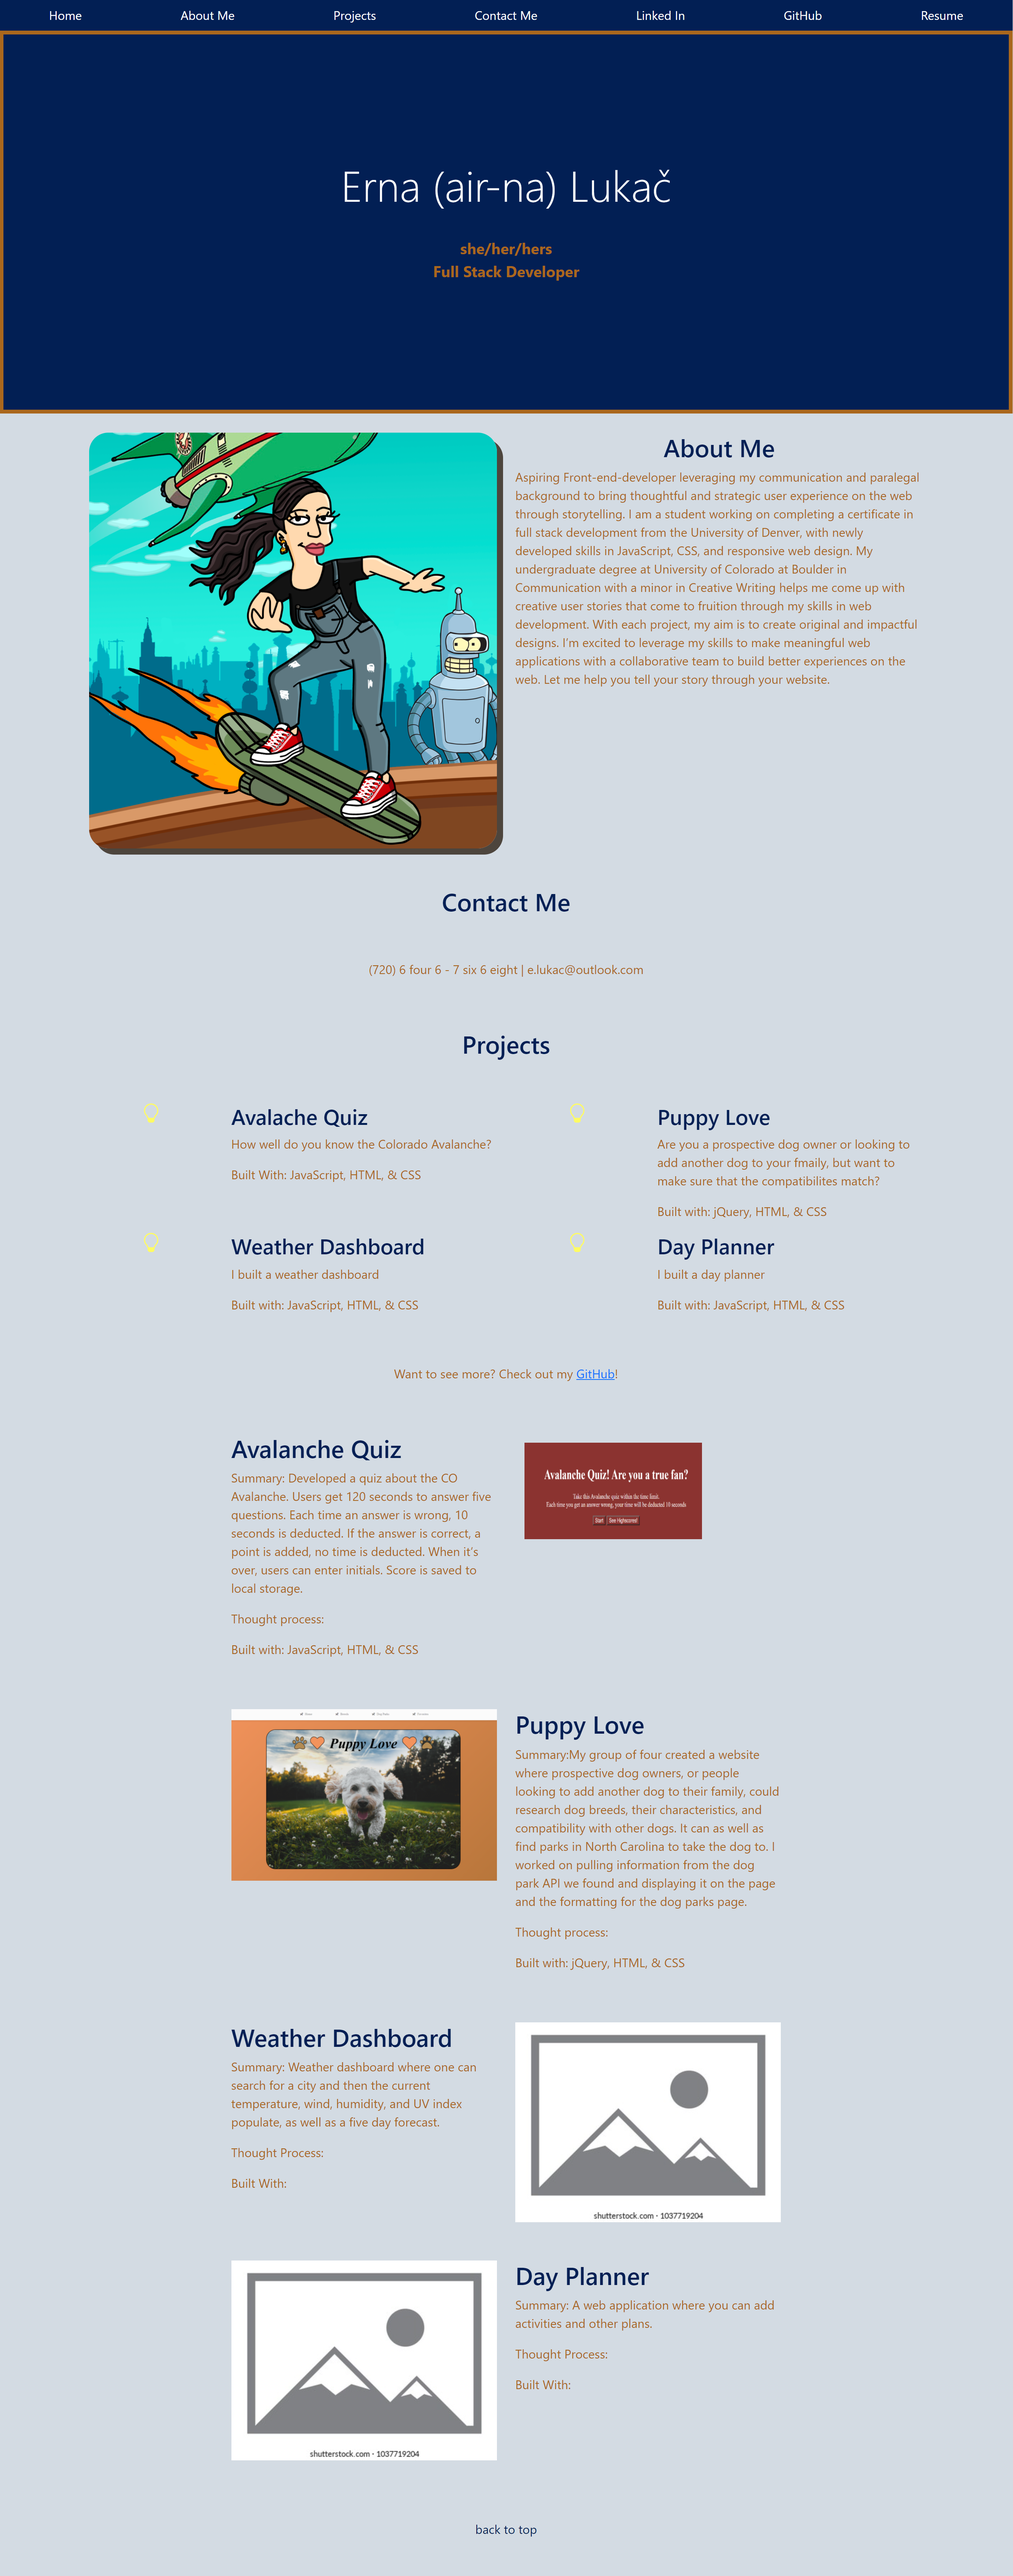
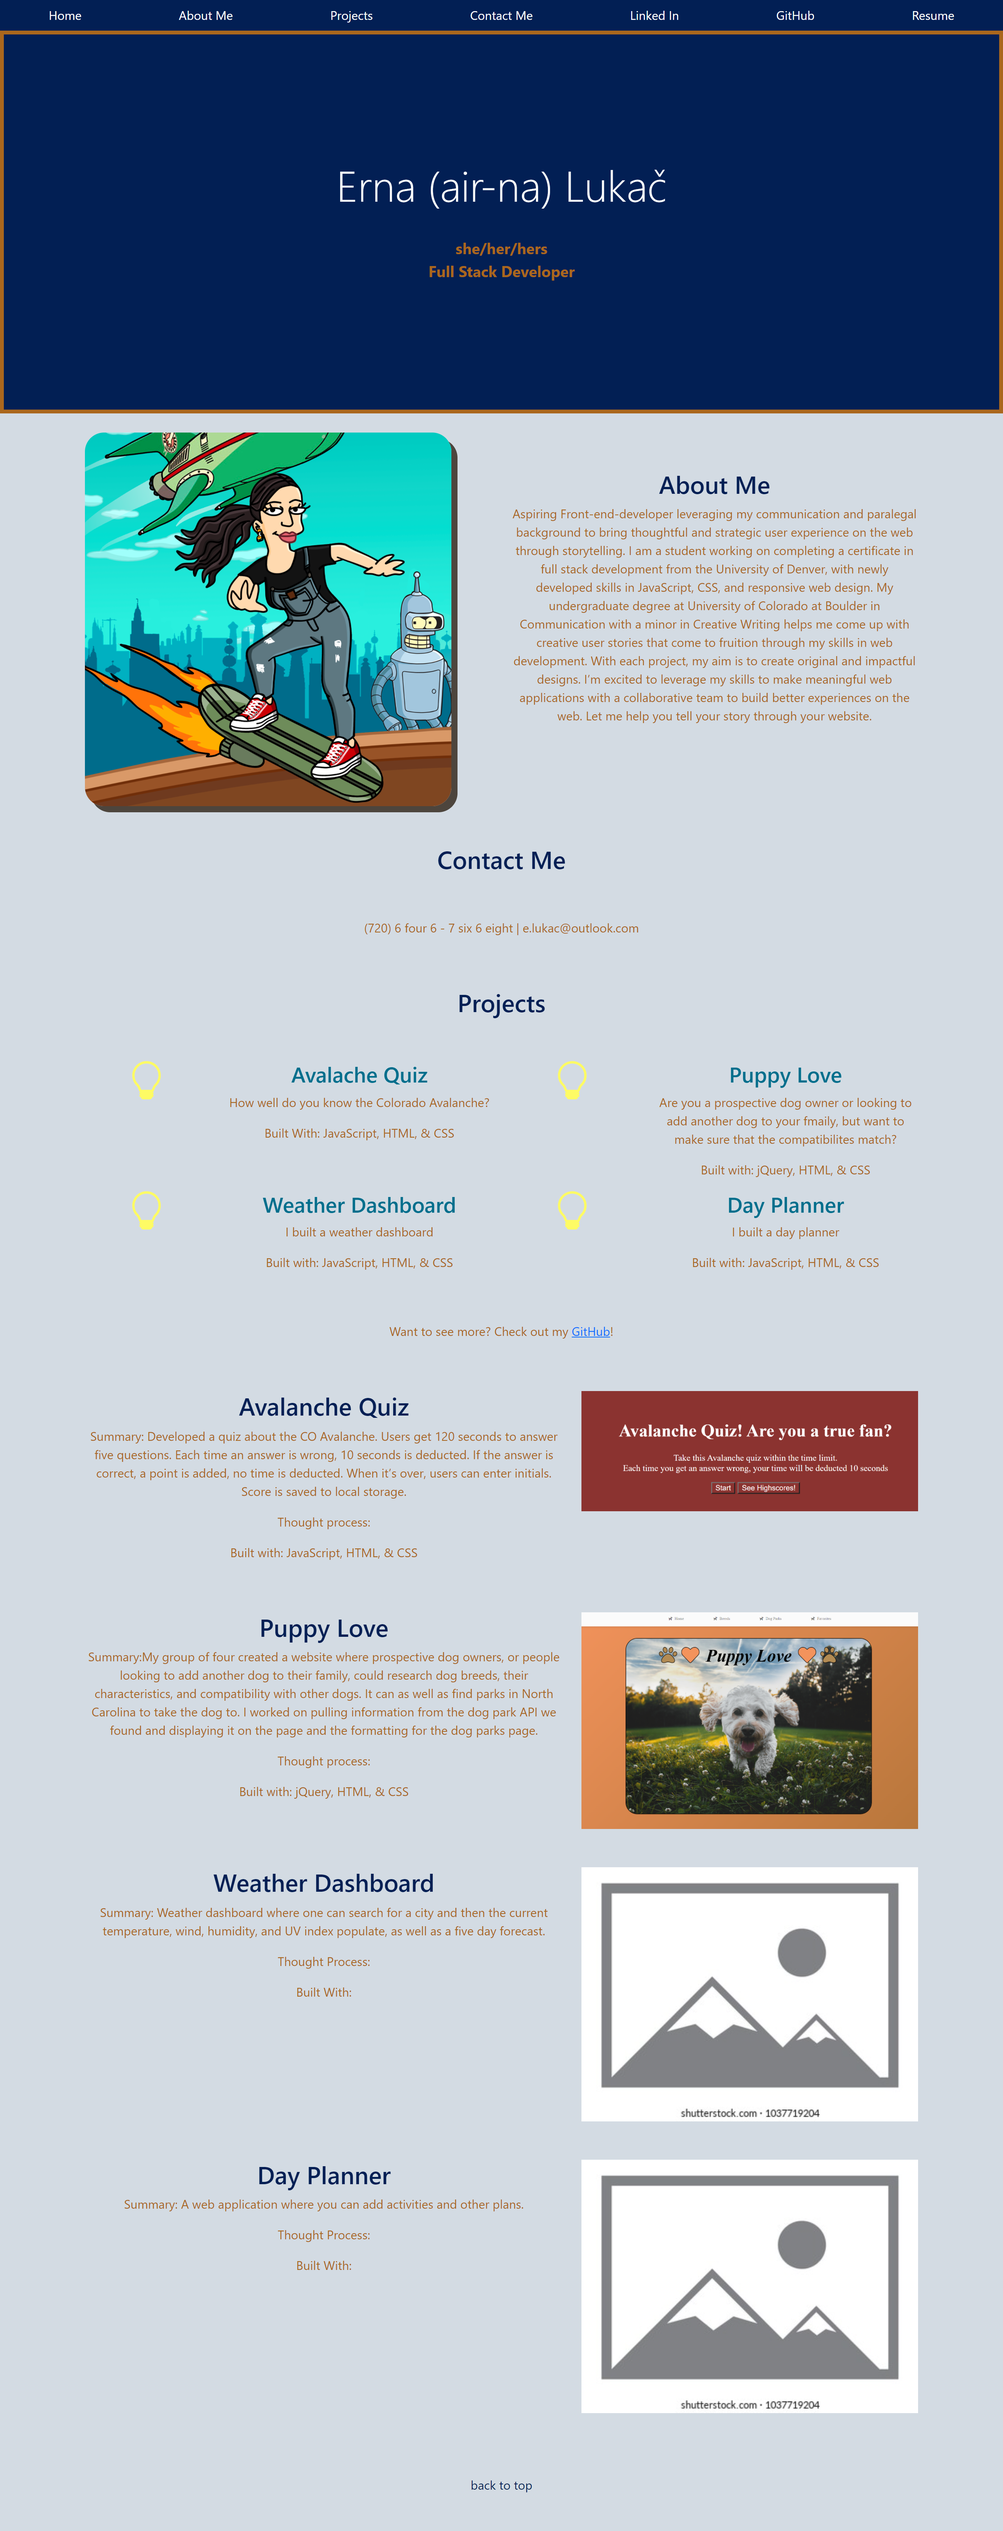
updated portfolio with project 2 details

diff --git a/index.html b/index.html
@@ -123,9 +123,9 @@
           </svg></h3>
         </div>
         <div class="text-center col-md-4">
-          <h3>Day Planner </h3>
-          <p>I built a day planner</p>
-          <p>Built with: JavaScript, HTML, & CSS</p>
+          <h3>FamYOUly </h3>
+          <p>A group project, I worked on the front end and UX/UI deisgn</p>
+          <p>Built with: Handlebars, SQL, JS, CSS, Node </p>
          </div>
         </div>
       </div>
@@ -174,7 +174,7 @@
         <h2>Weather Dashboard</h2>
         <p>Summary: Weather dashboard where one can search for a city and then the current temperature, wind, humidity, and UV index populate, as well as a five day forecast.</p>
         <p>Thought Process:</p>
-        <p>Built With:</p>
+        <p>Built With: HTML, JS, CSS</p>
       </div>
       <div class ="col-md-5">
          <a class="row" href="https://github.com/ooernica/6WeekHomeworkWeatherDashboard"target="_blank" rel="noreferrer noopener"><img src="Assets\Images\Placeholder Image.jpg" alt="Placeholder Mountain Image"></a>
@@ -186,13 +186,13 @@
    <div class="container">
     <div class="row">
       <div class="col-md-7 text-center">
-        <h2>Day Planner</h2>
-        <p>Summary: A web application where you can add activities and other plans.</p>
+        <h2>FamYOUly</h2>
+        <p>Summary: A full stack website that can add, delete and update users, events, todos, children and miscellaneous information for a family.</p>
         <p>Thought Process:</p>
-        <p>Built With:</p>
+        <p>Built With: dotenv, express, express-handlebars, express-session, handlebars, handlebars-helpers, http, multer, mysql2, nodemon, sequelize, sweetalert and uuid</p>
       </div>
       <div class="col-md-5">
-        <a class="row projectImg" id="project4left" href="https://github.com/ooernica/5WeekHomeworkDayPlanner"target="_blank" rel="noreferrer noopener"><img src="Assets\Images\Placeholder Image.jpg" alt="Placeholder Mountain Image"></a>
+        <a class="row projectImg" id="project4left" href="https://evening-island-73261.herokuapp.com/login"target="_blank" rel="noreferrer noopener"><img src="Assets\Images\famYOUly.png" alt="Website Homepage with log in credentials and carosuel of images"></a>
       </div>
       </div>
   </div> 
